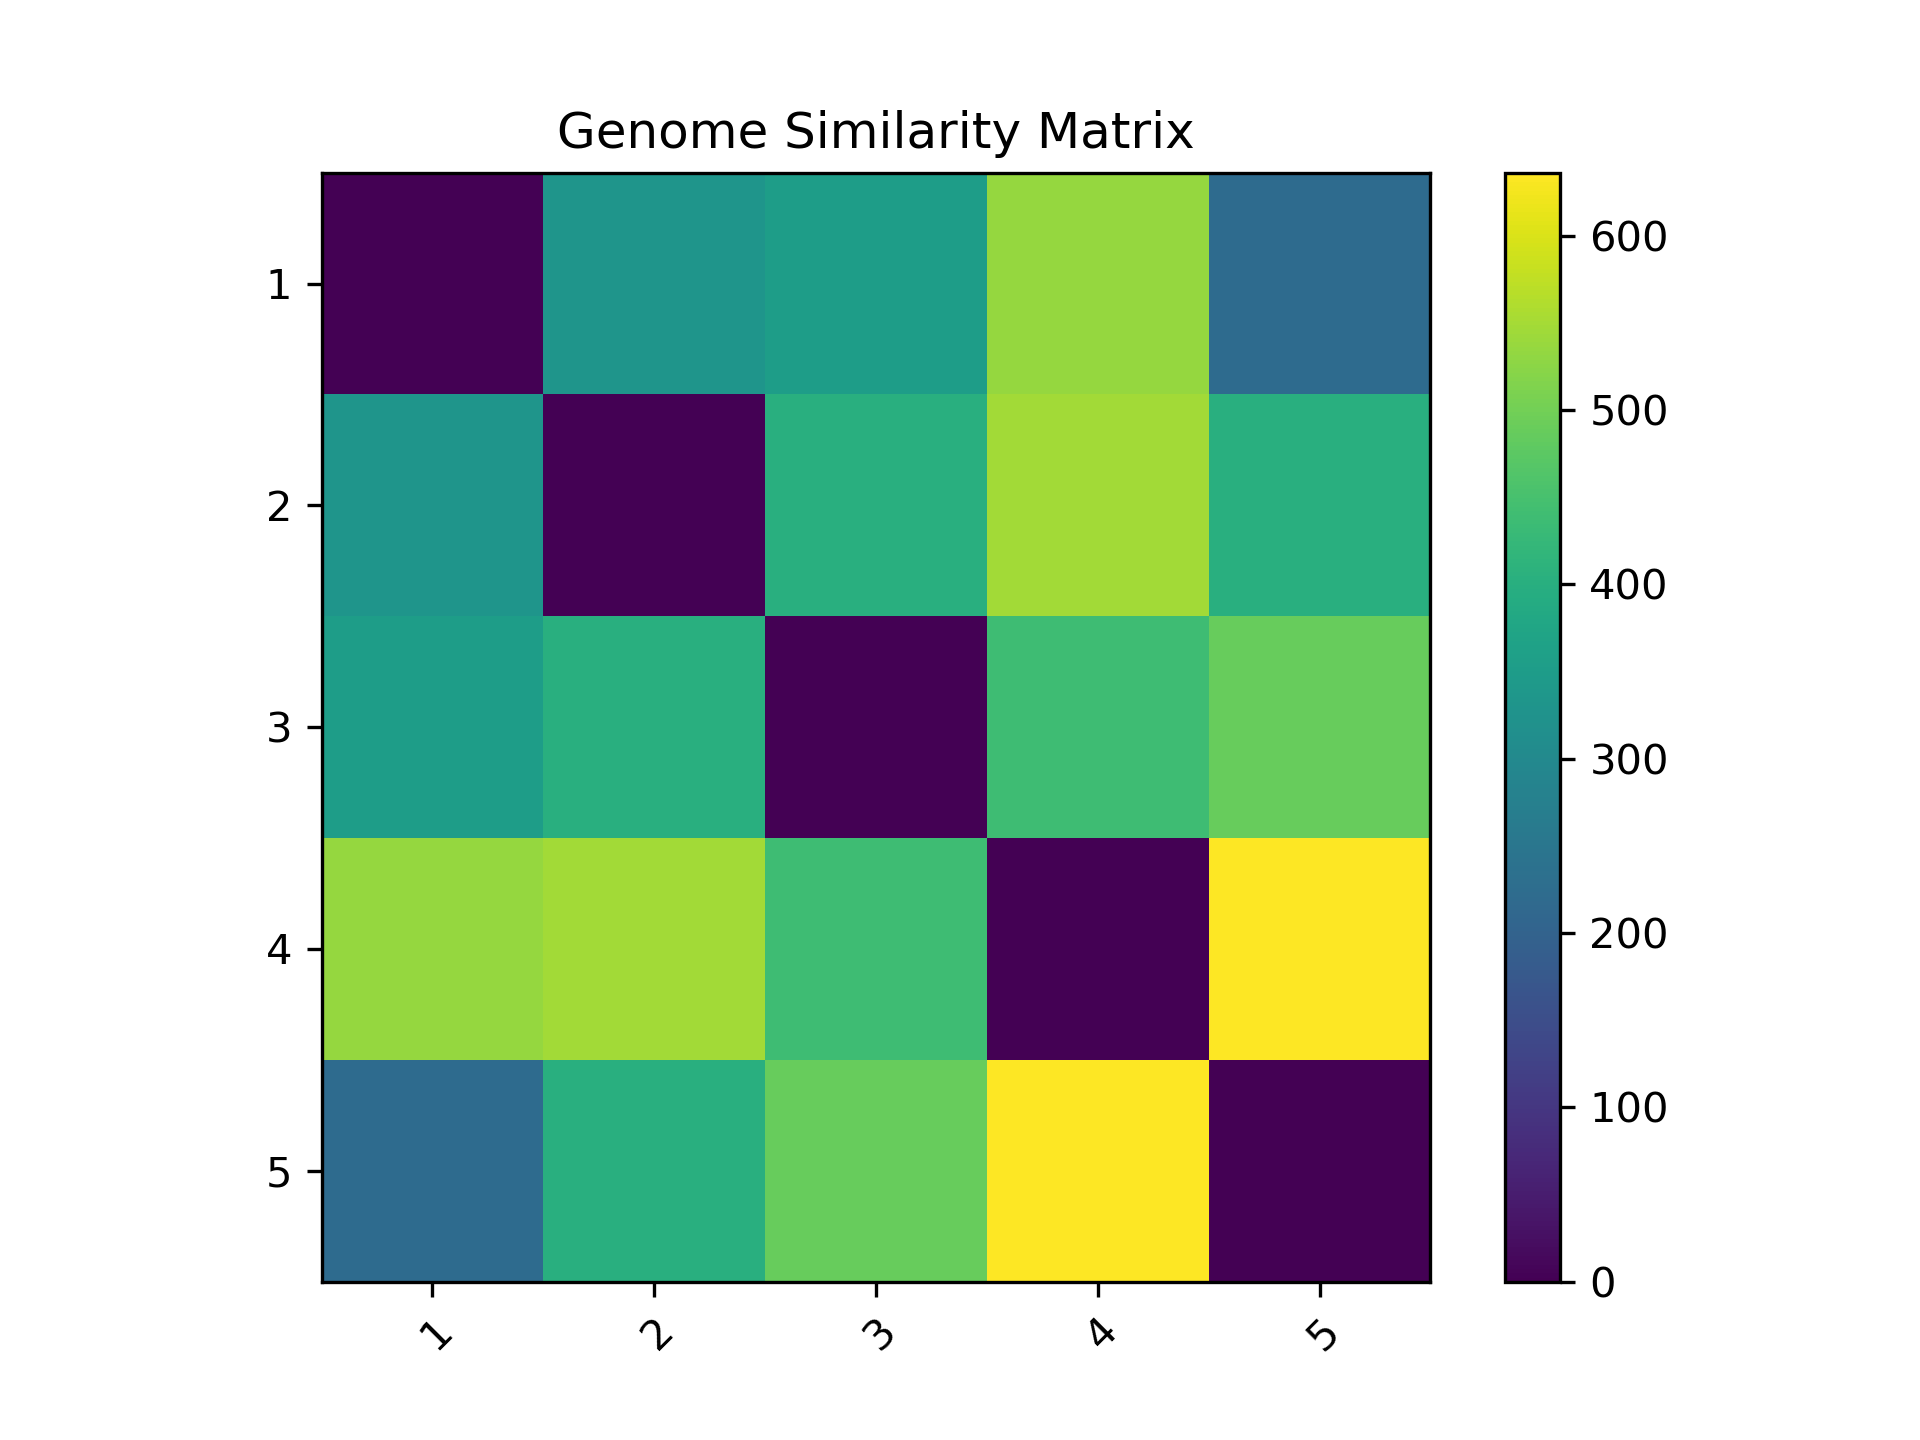
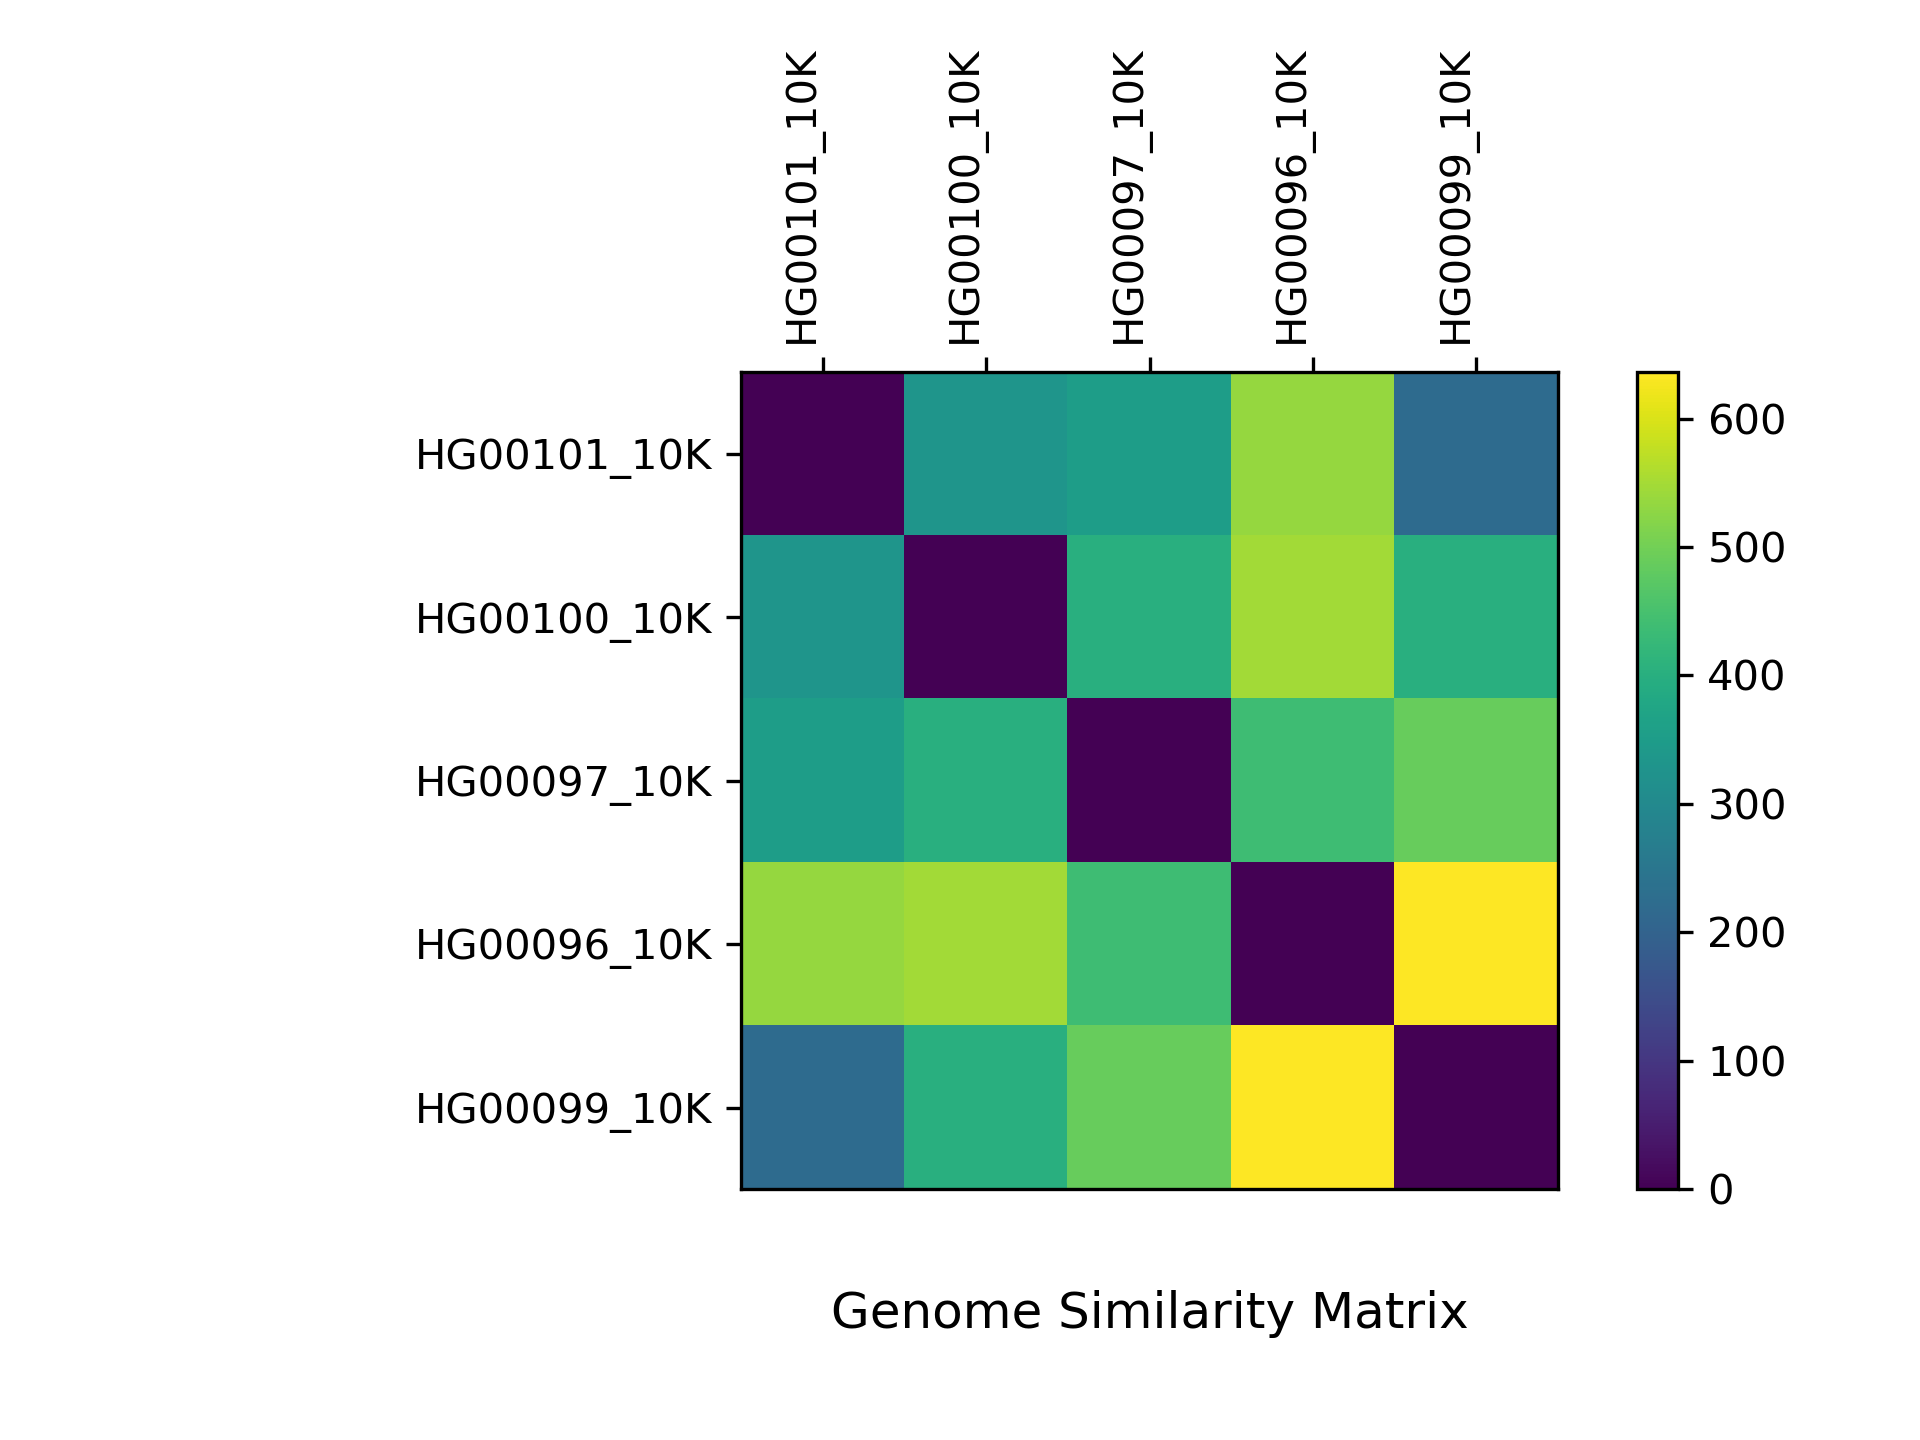
Adjacency graph draft.

diff --git a/data/similarity.py b/data/similarity.py
@@ -2,17 +2,17 @@ import numpy as np
 import matplotlib.pyplot as plt
 import os
 from vcf2vec import VcfObject
-import itertools
 
 FPATH = "./data/examples/"
 
 FILES = os.listdir(FPATH)
 
 sample_vectors = {}
-
+names = []
 for filename in FILES:
     name = filename.split('.')[0]
     vcf = VcfObject(os.path.join(FPATH, filename))
+    names.append(name)
     sample_vectors[name] = vcf.vector
 
 similarity_lists = []
@@ -36,14 +36,21 @@ cbar = ax.figure.colorbar(im, ax=ax)
 
 ax.set_xticks(np.arange(len(similarity_matrix)))
 ax.set_yticks(np.arange(len(similarity_matrix)))
-ax.set_xticklabels(np.arange(1, len(similarity_matrix)+1))
-ax.set_yticklabels(np.arange(1, len(similarity_matrix)+1))
-ax.set_title("Genome Similarity Matrix")
+ax.set_xticklabels(names)
+ax.set_yticklabels(names)
+
+ax.xaxis.tick_top()
+ax.xaxis.set_label_position('top')
+
+ax.set_title("Genome Similarity Matrix", y=-0.2)
 
 # Rotate the tick labels and set their alignment
-plt.setp(ax.get_xticklabels(), rotation=45, ha="right",
+plt.setp(ax.get_xticklabels(), rotation=90, ha="left",
          rotation_mode="anchor")
 
+ax.autoscale(enable=True)
+
+plt.tight_layout()
 plt.savefig("similarity-matrix.png", dpi=300)
 
 # Show the plot

diff --git a/data/adjacency.py b/data/adjacency.py
@@ -1,0 +1,34 @@
+import matplotlib.pyplot as plt
+import networkx as nx
+import pandas as pd
+
+FPATH = "./data/adj_sample.csv"
+
+# Create an empty graph
+G = nx.Graph()
+
+# Add nodes to the graph
+genomes = pd.read_csv(FPATH, header=None, index_col=None)
+
+print(genomes)
+
+G.add_nodes_from(list(range(len(genomes))))
+
+epsilon = 5
+
+# Add edges to the graph
+for i, node_adjacencies in enumerate(genomes.iterrows()):
+    for j in range(i, len(node_adjacencies[1])):
+        if (node_adjacencies[1][j] <= epsilon) and (i != j):
+            print(node_adjacencies[1][j])
+            G.add_edge(i, j)
+
+# Draw the graph
+pos = nx.spring_layout(G)
+nx.draw_networkx_nodes(G, pos, node_color='blue', node_size=500)
+nx.draw_networkx_edges(G, pos, edge_color='red')
+nx.draw_networkx_labels(G, pos, font_color='white')
+plt.axis('off')
+
+plt.savefig("adjacency-graph.png", dpi=300)
+plt.show() 
